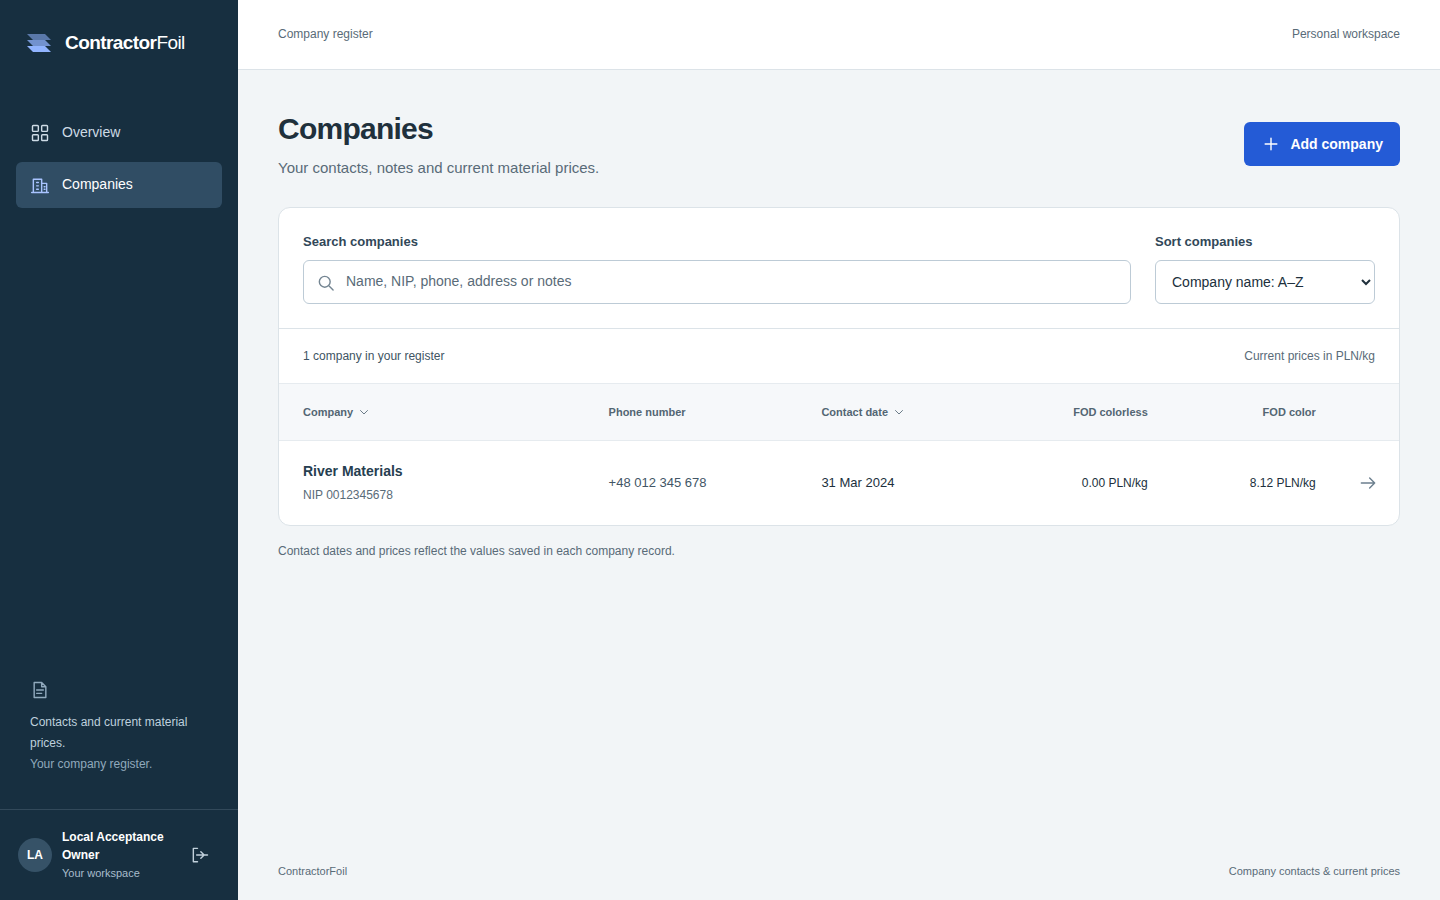
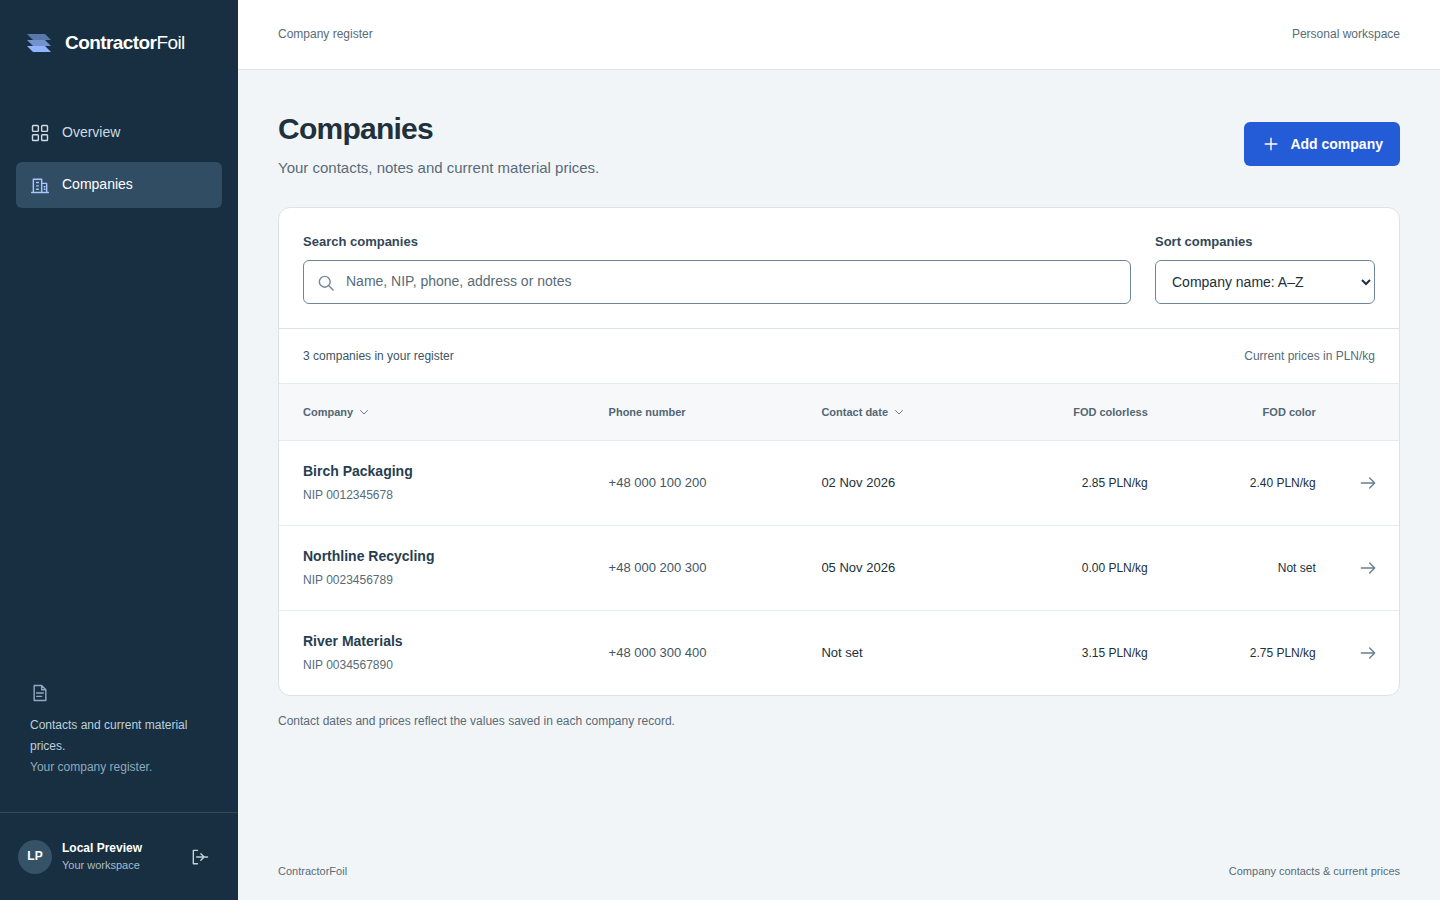
Document combined local acceptance and refresh workspace screenshots

diff --git a/docs/verification.md b/docs/verification.md
@@ -1,0 +1,41 @@
+# Local verification — 6 November 2026
+
+The company workspace was checked against a real local Express API and disposable MongoDB database using fictional accounts and records. The functional revision was `946923ec9721cd944917d9e35a117f04fe791693`; the documentation and refreshed screenshots do not change application behavior.
+
+## Automated checks
+
+`npm run check` passed on Linux with Node 24.22.2 and npm 11.19.1:
+
+| Check | Observed result |
+| --- | --- |
+| Backend tests with real local MongoDB | 56 passed |
+| Frontend transport, domain, session and interface tests | 88 passed |
+| TypeScript | Passed |
+| Production frontend build | Passed |
+
+See [local operation](local-operation.md#run-checks) for the disposable test database and commands. The backend suite rejects non-loopback database targets.
+
+## Browser acceptance
+
+The built SPA was exercised in Chromium on Linux through Playwright. The core, deadline and two-page session checks ran again on the combined functional revision. The focused interface checks had passed on that same revision before the final integrated run.
+
+| Scope | Checks | What was observed |
+| --- | --- | --- |
+| Core workflow | 12 passed | Registration, reload, create/edit/delete, owner isolation, direct route refresh and sign-in recovery |
+| Stalled requests | 4 passed | A committed but withheld POST released the UI after 20.47 seconds, retained its draft and sent once; readback found exactly one saved record; a stalled GET recovered through deliberate retry |
+| Shared sessions | 4 passed | A changed credential blocked the old form before network submission, the other tab's token survived, explicit sign-in saved only to its own account, and a late login response could not undo logout |
+| Interface recovery and reflow | 33 passed | Repeated validation focus, inline renewal, safe dialog actions, keyboard wrap/Escape, successful read focus and full-value wrapping at 320, 390, 768 and 1440 CSS pixels |
+
+The core workflow verified leading zeroes in NIP, formatted phone strings, a zero price, full stored decimal precision, absent optional prices and preservation of a legacy non-midnight timestamp during a notes-only edit. Lost-response checks committed a request to the local API before withholding or dropping its response; they did not merely simulate a failed save before the server received it.
+
+Resting input borders measured 3.81:1 against their white surface. Long NIP values and search text remained readable in the tested views. This measurement and keyboard testing cover specific controls and flows, not a full accessibility conformance assessment.
+
+The README screenshots were captured from the same functional build at 1440×900 and 390×844 viewport sizes, with full-page capture on mobile. The three companies and the account shown are fictional local fixtures. Both views were inspected; neither had horizontal page overflow.
+
+## Before a release
+
+Local acceptance does not establish hosted behavior. A failed Vercel preview check remained unresolved: deployment Build Logs were not available, and the dashboard required authentication. The configured install and build commands also passed in a fresh tracked-source export, but this does not establish why the hosted check failed. Do not infer a deployment fix from the local results.
+
+Before releasing, inspect the actual hosting logs, confirm the intended frontend API origin and isolated preview API/database, and follow the [hosting checks](hosting.md#verify-a-hosting-change). No production deployment or database migration was performed during this verification.
+
+Actual browser zoom, screen-reader use, physical touch devices, Safari/Firefox, other operating systems and live CAPTCHA provider behavior remain unverified. There is no load benchmark, production reliability claim or full WCAG certification in these results.

diff --git a/README.md b/README.md
@@ -52,6 +52,8 @@ Open `http://127.0.0.1:5173` and register a local account. The frontend uses `ht
 - A zero price is a recorded value; an unset price is shown as `Not set`. Display formatting does not change stored precision.
 - Contact date is optional and has a neutral meaning. Editing another field preserves an existing timestamp and any untouched optional values.
 - If a save response is lost, check saved records before repeating the action. Mutations are never retried automatically.
+- Requests stop waiting after 20 seconds. A timed-out write may already be saved; keep the draft and check saved records first.
+- Changing accounts or signing out in another tab ends this tab's protected session and clears its unsaved drafts. Same-account recovery within a form keeps the draft.
 
 ## Check changes
 
@@ -70,6 +72,7 @@ Use fictional local accounts and records for tests and screenshots. Do not use a
 - [Local operation and configuration](docs/local-operation.md)
 - [API and stored-value semantics](docs/api.md)
 - [Frontend hosting and deep links](docs/hosting.md)
+- [Local verification results and remaining release checks](docs/verification.md)
 - [Frontend development](frontend/README.md)
 
 The existing license declarations are retained in the package manifests: MIT at the repository root and ISC in the backend package.
